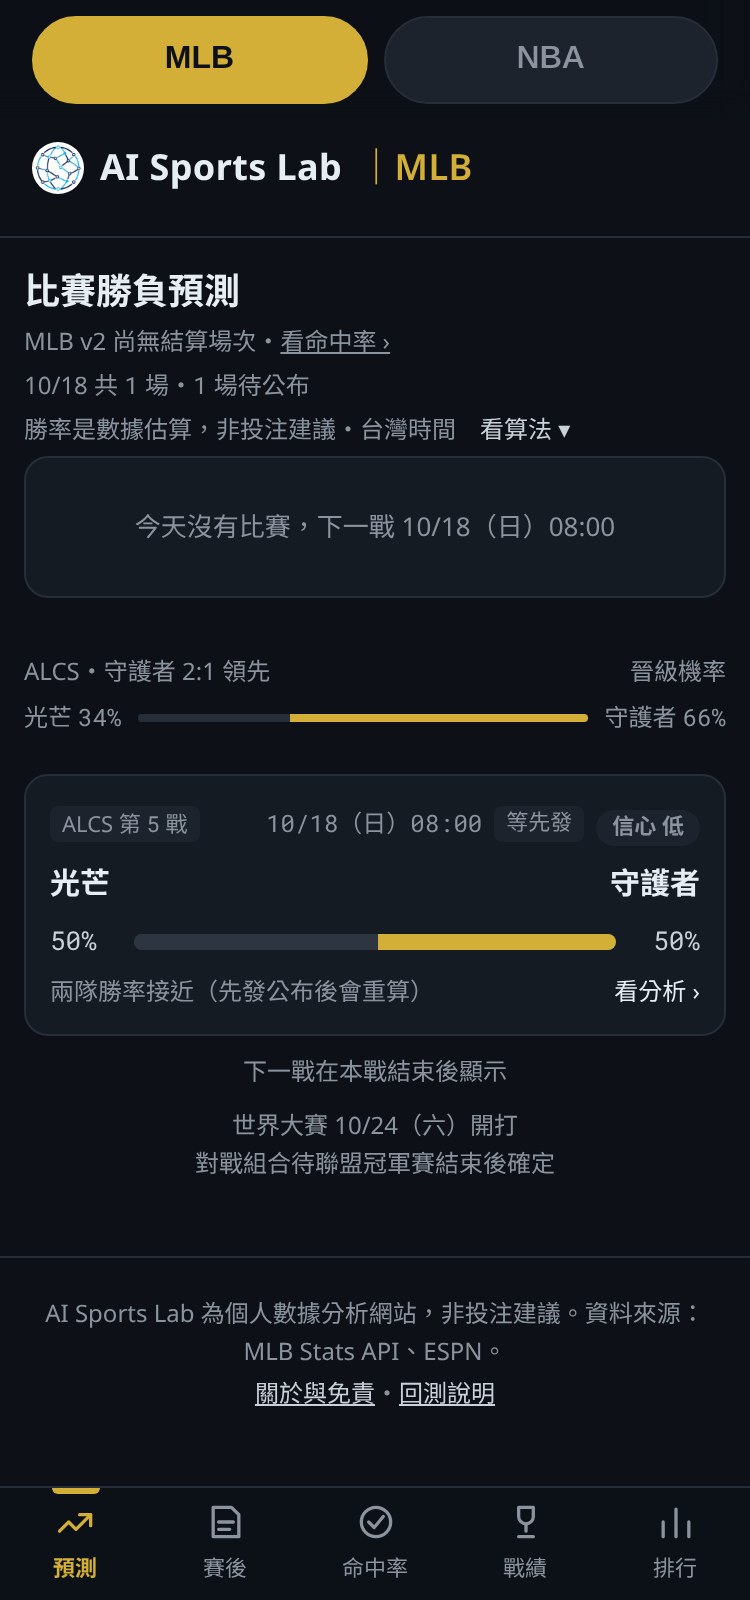
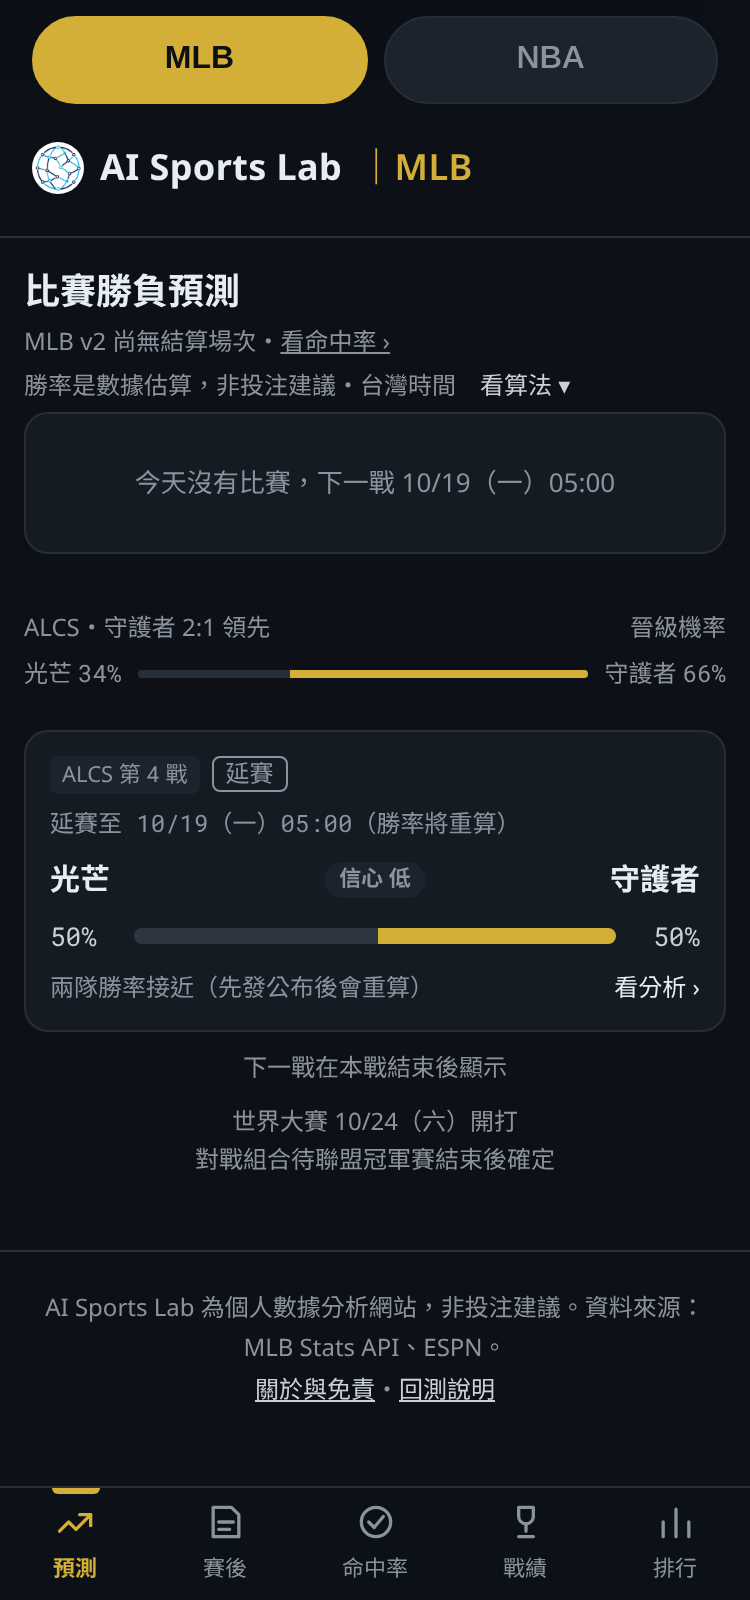
上季那句兩隊數字不拆行

diff --git a/index.html b/index.html
@@ -12,22 +12,22 @@
 <meta name="twitter:card" content="summary_large_image">
 <meta name="twitter:title" content="AI Sports Lab｜MLB、NBA 中文數據分析">
 <meta name="twitter:description" content="每場預測都附理由，看懂勝負背後的數字。數據分析，非投注建議。">
-<meta name="twitter:image" content="https://8b2b5t58zf-png.github.io/mlb-site/img/og-home.png?v=202610170950">
+<meta name="twitter:image" content="https://8b2b5t58zf-png.github.io/mlb-site/img/og-home.png?v=202610171000">
 <meta property="og:type" content="website">
-<meta property="og:image" content="https://8b2b5t58zf-png.github.io/mlb-site/img/og-home.png?v=202610170950">
+<meta property="og:image" content="https://8b2b5t58zf-png.github.io/mlb-site/img/og-home.png?v=202610171000">
 <meta property="og:image:width" content="1200"><meta property="og:image:height" content="630">
-<link rel="icon" type="image/png" sizes="32x32" href="favicon-32.png?v=202610170950">
-<link rel="apple-touch-icon" sizes="180x180" href="apple-touch-icon.png?v=202610170950">
+<link rel="icon" type="image/png" sizes="32x32" href="favicon-32.png?v=202610171000">
+<link rel="apple-touch-icon" sizes="180x180" href="apple-touch-icon.png?v=202610171000">
 <meta property="og:url" content="https://8b2b5t58zf-png.github.io/mlb-site/">
 <!-- 引入樣式檔，負責網頁外觀 -->
-<link rel="stylesheet" href="style.css?v=202610170950">
+<link rel="stylesheet" href="style.css?v=202610171000">
 <!-- 從 CDN 載入 Chart.js，用來畫圖表 -->
 <script src="https://cdn.jsdelivr.net/npm/chart.js@4"></script>
 </head>
 <body>
 <div id="lgbar"><div class="lgsw" role="tablist" aria-label="切換聯盟"><button data-lg="mlb" aria-selected="true">MLB</button><button data-lg="nba" aria-selected="false">NBA</button></div></div>
 <header>
-  <h1 class="brand"><img class="logo" src="img/logo-icon.png?v=202610170950" alt="" width="30" height="30"><span class="nw">AI Sports Lab</span><span class="sport" id="lg-tag">｜MLB</span></h1>
+  <h1 class="brand"><img class="logo" src="img/logo-icon.png?v=202610171000" alt="" width="30" height="30"><span class="nw">AI Sports Lab</span><span class="sport" id="lg-tag">｜MLB</span></h1>
   <p class="tagline">每場預測都附理由，<span id="tg-scope">用 2026 整季比賽驗證過</span></p>
   <p class="tagline-sub">看懂勝負背後的數字</p>
   <p class="tagline-link"><a id="tg-link" href="validation.html">看驗證結果 ›</a></p>
@@ -110,11 +110,11 @@
 <!-- 手機底部固定導覽列（寬度小於 768px 才顯示） -->
 <nav id="bottomnav" aria-label="主選單"><a href="#sec-predict" data-sec="sec-predict"><span class="ic" aria-hidden="true"><svg viewBox="0 0 24 24" width="22" height="22" fill="none" stroke="currentColor" stroke-width="1.8" stroke-linecap="round" stroke-linejoin="round"><path d="M3 17l5-5 4 4 8-8"/><path d="M14 8h6v6"/></svg></span><span>預測</span></a><a href="#sec-analysis" data-sec="sec-analysis"><span class="ic" aria-hidden="true"><svg viewBox="0 0 24 24" width="22" height="22" fill="none" stroke="currentColor" stroke-width="1.8" stroke-linecap="round" stroke-linejoin="round"><path d="M5 4h10l4 4v12H5z"/><path d="M8 12h8M8 16h6"/></svg></span><span>賽後</span></a><a href="#sec-hit" data-sec="sec-hit"><span class="ic" aria-hidden="true"><svg viewBox="0 0 24 24" width="22" height="22" fill="none" stroke="currentColor" stroke-width="1.8" stroke-linecap="round" stroke-linejoin="round"><circle cx="12" cy="12" r="8"/><path d="M8 12l3 3 5-6"/></svg></span><span>命中率</span></a><a href="#sec-standings" data-sec="sec-standings"><span class="ic" aria-hidden="true"><svg viewBox="0 0 24 24" width="22" height="22" fill="none" stroke="currentColor" stroke-width="1.8" stroke-linecap="round" stroke-linejoin="round"><path d="M8 4h8v5a4 4 0 01-8 0z"/><path d="M12 13v4M8 20h8"/></svg></span><span>戰績</span></a><a href="#sec-batting" data-sec="sec-batting"><span class="ic" aria-hidden="true"><svg viewBox="0 0 24 24" width="22" height="22" fill="none" stroke="currentColor" stroke-width="1.8" stroke-linecap="round" stroke-linejoin="round"><path d="M5 20V12M12 20V5M19 20v-8"/></svg></span><span>排行</span></a></nav>
 <footer class="site-foot" id="foot"><p class="foot-src">AI Sports Lab 為個人數據分析網站，非投注建議。資料來源：MLB Stats API、ESPN。</p><p><a href="#about" data-go="about" class="foot-about">關於與免責</a>・<a href="validation.html">回測說明</a></p></footer>
-<script src="players.js?v=202610170950"></script>
-<script src="players-nba.js?v=202610170950"></script>
-<script src="why-text.js?v=202610170950"></script>
-<script src="nba.js?v=202610170950"></script>
-<script src="app.js?v=202610170950"></script>
+<script src="players.js?v=202610171000"></script>
+<script src="players-nba.js?v=202610171000"></script>
+<script src="why-text.js?v=202610171000"></script>
+<script src="nba.js?v=202610171000"></script>
+<script src="app.js?v=202610171000"></script>
 <script>window.goatcounter={path:function(p){return location.pathname+location.hash}};</script>
 <script data-goatcounter="https://aisportslab.goatcounter.com/count" async src="//gc.zgo.at/count.js"></script>
 </body>

diff --git a/why-text.js b/why-text.js
@@ -12,7 +12,7 @@ const WHY_TXT = {
   rec: "{t}本季 {w} 勝 {l} 敗，勝率 {p} 高於{o}的 {op}，戰績面占優",
   recClose: "兩隊戰績相近（{p} 對 {op}），這項影響不大",
   preseason: "新球季尚未開打，依上一季實力估算",
-  prior: "開季場次還少，參考上季得失分表現（畢氏勝率：{t} {p}、{o} {q}）",
+  prior: "開季場次還少，參考上季得失分表現（畢氏勝率：<span class=\"nw\">{t} {p}</span>、<span class=\"nw\">{o} {q}</span>）",
   priorLate: "本季樣本已足，上季實力只占小幅比重",
   home: "{t}坐鎮主場，主場優勢",
   neutral: "中立場地，不計主場優勢",
